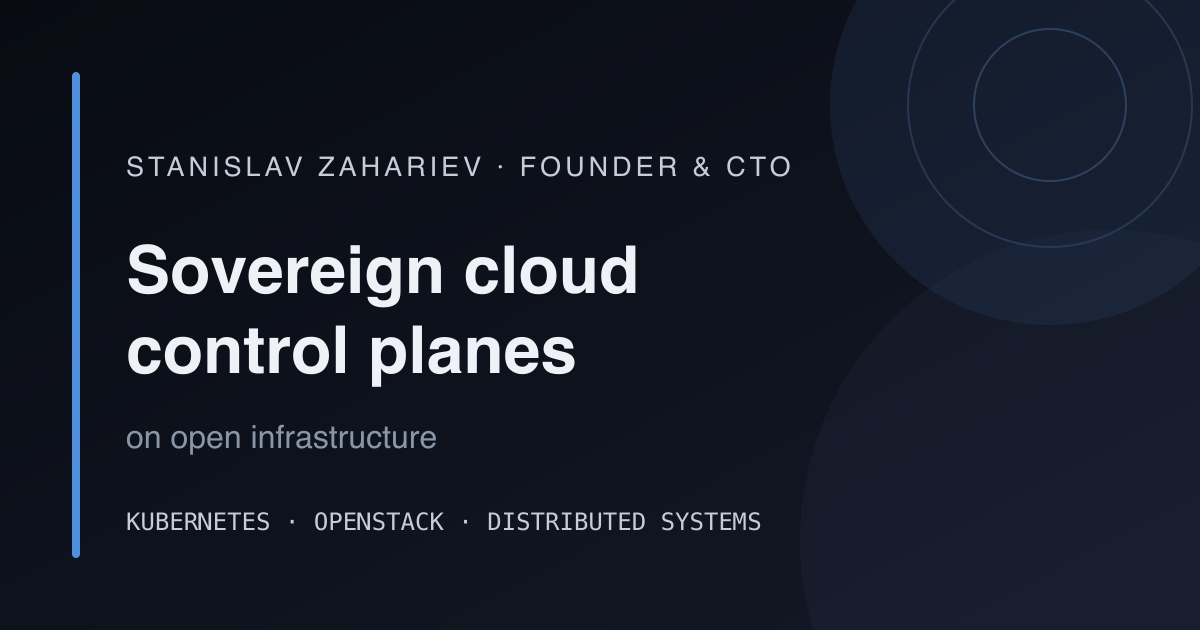
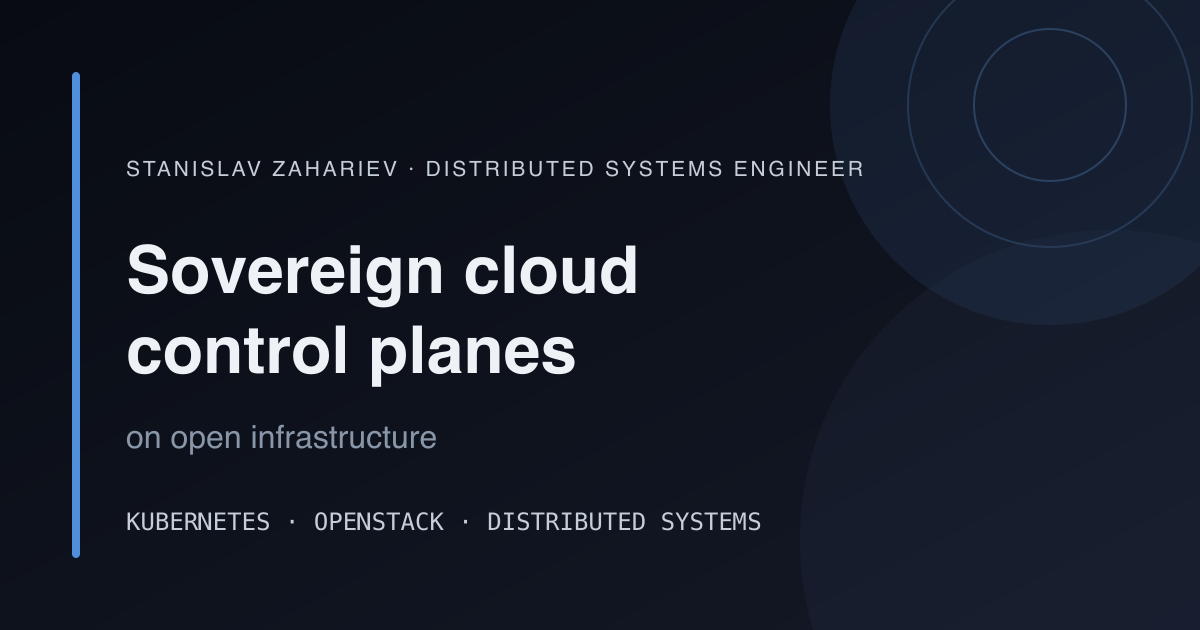
Refine personal profile

Changed region(s): [[0.0925, 0.2413, 0.7092, 0.3016]]

diff --git a/assets/css/main.css b/assets/css/main.css
@@ -16,8 +16,6 @@
   --link-hover: #fff;
   --card-from: rgb(20 25 39 / 72%);
   --card-to: rgb(13 18 32 / 55%);
-  --band-bg: rgb(13 18 32 / 78%);
-  --band-glow: rgb(79 143 220 / 10%);
   --empty-bg: rgb(20 25 39 / 60%);
   --button-primary: #245a96;
   --button-primary-hover: #2f6fb6;
@@ -48,8 +46,6 @@
   --link-hover: #050b14;
   --card-from: rgb(255 255 255 / 94%);
   --card-to: rgb(237 242 247 / 78%);
-  --band-bg: rgb(237 243 249 / 88%);
-  --band-glow: rgb(47 110 174 / 10%);
   --empty-bg: rgb(255 255 255 / 72%);
   --button-primary: #245a96;
   --button-primary-hover: #194d83;
@@ -77,8 +73,6 @@
     --link-hover: #050b14;
     --card-from: rgb(255 255 255 / 94%);
     --card-to: rgb(237 242 247 / 78%);
-    --band-bg: rgb(237 243 249 / 88%);
-    --band-glow: rgb(47 110 174 / 10%);
     --empty-bg: rgb(255 255 255 / 72%);
     --button-primary: #245a96;
     --button-primary-hover: #194d83;
@@ -470,6 +464,10 @@ p {
   padding-top: clamp(2.75rem, 4vw, 3.75rem);
 }
 
+.section + .section {
+  padding-top: 0;
+}
+
 .section-heading {
   max-width: 50rem;
   margin-bottom: clamp(1.75rem, 3vw, 2.5rem);
@@ -516,30 +514,6 @@ p {
 }
 
 .card p {
-  margin-top: 1.25rem;
-  color: var(--mist);
-}
-
-.section-band {
-  border-block: 1px solid var(--slate);
-  background:
-    linear-gradient(90deg, var(--band-glow), transparent 35%),
-    var(--band-bg);
-}
-
-.split-feature {
-  display: grid;
-  grid-template-columns: minmax(15rem, 0.8fr) minmax(20rem, 1.2fr);
-  gap: clamp(3rem, 9vw, 8rem);
-  align-items: start;
-}
-
-.feature-copy {
-  max-width: 39rem;
-  font-size: 1.17rem;
-}
-
-.feature-copy p + p {
   margin-top: 1.25rem;
   color: var(--mist);
 }
@@ -892,7 +866,6 @@ p {
   }
 
   .card-grid,
-  .split-feature,
   .page-shell-with-aside {
     grid-template-columns: 1fr;
   }

diff --git a/layouts/home.html b/layouts/home.html
@@ -22,20 +22,6 @@
     </div>
   </section>
 
-  <section class="section section-band">
-    <div class="shell split-feature">
-      <div>
-        <p class="eyebrow">{{ i18n "currentlyBuilding" }}</p>
-        <h2>Soverita</h2>
-      </div>
-      <div class="feature-copy">
-        <p>{{ .Params.soveritaIntro }}</p>
-        <p>{{ .Params.soveritaWork }}</p>
-        <a class="text-link" href="{{ site.Params.soverita }}">{{ i18n "visitSoverita" }} <span aria-hidden="true">→</span></a>
-      </div>
-    </div>
-  </section>
-
   <section class="section shell" aria-labelledby="writing-heading">
     <div class="section-heading heading-row">
       <div>

diff --git a/layouts/partials/footer.html b/layouts/partials/footer.html
@@ -4,7 +4,6 @@
       <a href="mailto:{{ site.Params.email }}">{{ i18n "email" }}</a>
       <a href="{{ site.Params.linkedin }}" rel="me">LinkedIn</a>
       <a href="{{ site.Params.bluesky }}" rel="me">Bluesky</a>
-      <a href="{{ site.Params.soverita }}">Soverita</a>
       {{ with site.Home.OutputFormats.Get "RSS" }}<a href="{{ .RelPermalink }}">RSS</a>{{ end }}
     </nav>
     <p class="footer-meta">&copy; {{ now.Year }} {{ site.Params.author }} &middot; {{ i18n "noTracking" }}</p>

diff --git a/layouts/partials/head.html b/layouts/partials/head.html
@@ -61,11 +61,6 @@
   "url": "{{ site.Home.Permalink }}",
   "image": "{{ "images/headshot-square.jpeg" | absURL }}",
   "jobTitle": "{{ site.Params.schemaJobTitle }}",
-  "worksFor": {
-    "@type": "Organization",
-    "name": "Soverita",
-    "url": "{{ site.Params.soverita }}"
-  },
   "sameAs": [
     "{{ site.Params.linkedin }}",
     "{{ site.Params.bluesky }}"

diff --git a/content/about.bg.md b/content/about.bg.md
@@ -1,6 +1,6 @@
 ---
 title: За мен
-description: Станислав Захариев е основател и технически директор на Soverita и инженер по разпределени системи в София.
+description: Станислав Захариев е инженер по разпределени системи в София. Работи по контролни равнини за суверенен облак, Kubernetes и отворена инфраструктура.
 portrait: images/headshot-portrait.jpeg
 portraitAlt: Портрет на Станислав Захариев
 ---
@@ -9,10 +9,11 @@ portraitAlt: Портрет на Станислав Захариев
 никога не виждат. Контролната равнина управлява правата, разполагането на натоварванията
 и възстановяването след отказ. Това е частта, върху която работя.
 
-Създадох [Soverita](https://soverita.io), за да изградя европейска платформа за управление на суверенен
-облак за организации, които управляват собствената си инфраструктура. Повечето от времето ми
-минава в проектиране на API между Kubernetes и инфраструктурата под него. Грижа се и системата
-да остава в коректно състояние, когато някоя операция се провали или бъде повторена.
+В момента работя по контролни равнини за суверенен облак за организации, които
+управляват собствената си инфраструктура. Повечето от времето ми минава в
+проектиране на API между Kubernetes и инфраструктурата под него. Грижа се и
+системата да остава в коректно състояние, когато някоя операция се провали или
+бъде повторена.
 
 Повече от двадесет години изграждам разпределени системи — от телефония за телеком оператори до
 финтех и AI платформи. Все още пиша код, внедрявам го и отстранявам проблемите, когато нещо се счупи.

diff --git a/content/_index.bg.md b/content/_index.bg.md
@@ -3,8 +3,6 @@ title: Станислав Захариев
 description: Станислав Захариев изгражда контролни равнини за суверенен облак върху отворена инфраструктура. Работата му обхваща Kubernetes, OpenStack и разпределени системи.
 heroTitle: Трудните проблеми на облачните контролни равнини
 heroIntro: Kubernetes и инфраструктурата, върху която работи, често се държат като отделни системи. Изграждам контролната равнина, която ги свързва в една работеща облачна платформа.
-soveritaIntro: Soverita е европейска платформа за управление на суверенен облак. Тя позволява на организациите да превърнат съществуващата си инфраструктура в облак на самообслужване, без да губят контрол върху системите, които го управляват.
-soveritaWork: Проектирам и реализирам API и работни процеси, които свързват Kubernetes с инфраструктурни платформи. Това включва създаване на машини, свързване на дискове, конфигуриране на маршрути и обработване на ресурсите, останали след прекъсната операция.
 writingTitle: Как частите работят заедно и къде се чупят
 firstEssayTitle: Суверенността е свойство на контролната равнина
 firstEssayText: Първата статия разглежда пет конкретни проверки за правомощията, ключовете, одитните доказателства, непрекъснатата работа и изхода от платформата.

diff --git a/content/speaking.bg.md b/content/speaking.bg.md
@@ -71,7 +71,11 @@ cloud controller manager и CSI драйвъра и показва кой ком
 
 ## Биография
 
-Станислав Захариев е основател и технически директор на Soverita, където изгражда контролни равнини за суверенен облак върху отворена инфраструктура. Повече от двадесет години той изгражда разпределени системи в телекомуникациите, финтех и AI. Пише и говори за Kubernetes, OpenStack и за това какво се случва, когато облачната архитектура се срещне с реални системи и реални откази.
+Станислав Захариев е инженер по разпределени системи, който работи по контролни
+равнини за суверенен облак и отворена инфраструктура. Повече от двадесет години
+той изгражда разпределени системи в телекомуникациите, финтех и AI. Пише и говори
+за Kubernetes, OpenStack и за това какво се случва, когато облачната архитектура
+се срещне с реални системи и реални откази.
 
 [Изтеглете портретна снимка]({{< static-url "images/headshot-portrait.jpeg" >}}) ·
 [Изтеглете квадратна снимка]({{< static-url "images/headshot-square.jpeg" >}}) ·

diff --git a/content/about.md b/content/about.md
@@ -1,6 +1,6 @@
 ---
 title: About
-description: Stanislav Zahariev is the founder and CTO of Soverita and a distributed-systems engineer based in Sofia, Bulgaria.
+description: Stanislav Zahariev is a distributed systems engineer based in Sofia, Bulgaria. He works on sovereign cloud control planes, Kubernetes and open infrastructure.
 portrait: images/headshot-portrait.jpeg
 portraitAlt: Portrait of Stanislav Zahariev
 ---
@@ -9,11 +9,10 @@ Most of the work behind a cloud happens in software its users never see. The
 control plane handles permissions, workload placement, and recovery when things
 fail. That's the part I work on.
 
-I started [Soverita](https://soverita.io) to build a European sovereign-cloud
-governance platform for organizations running their own infrastructure. Most
-of my time goes into designing APIs between Kubernetes and the underlying
-infrastructure, and making sure operations behave correctly when something
-fails or gets retried.
+My current work focuses on sovereign cloud control planes for organizations
+running their own infrastructure. Most of my time goes into designing APIs
+between Kubernetes and the underlying infrastructure, and making sure
+operations behave correctly when something fails or gets retried.
 
 I've spent over twenty years building distributed systems, from carrier-grade
 telephony to fintech and AI platforms. I still write code, deploy it, and debug

diff --git a/content/_index.md b/content/_index.md
@@ -3,8 +3,6 @@ title: Stanislav Zahariev
 description: Stanislav Zahariev builds sovereign cloud control planes on open infrastructure. His work spans Kubernetes, OpenStack and distributed systems.
 heroTitle: Solving the hard parts of cloud control planes
 heroIntro: Kubernetes and the infrastructure beneath it often operate as separate systems. I'm building the control plane that connects them into a working cloud platform.
-soveritaIntro: Soverita is a European sovereign cloud governance platform. It lets organizations use their existing infrastructure as a self-service cloud while keeping control over the systems that operate it.
-soveritaWork: I design and implement the APIs and workflows connecting Kubernetes to infrastructure platforms. The work involves provisioning machines, attaching storage, configuring routes and handling resources left behind when operations are interrupted.
 writingTitle: How the pieces fit and where they fail
 firstEssayTitle: What makes a cloud sovereign?
 firstEssayText: The first essay examines five architectural invariants behind operator independence, with practical ways to verify each one in a running system.

diff --git a/content/speaking.md b/content/speaking.md
@@ -85,11 +85,11 @@ about what you run to find out whether either one is telling the truth.
 
 ## Speaker biography
 
-Stanislav Zahariev is the founder and CTO of Soverita, where he builds sovereign
-cloud control planes on open infrastructure. For more than twenty years, he has
-built distributed systems across carrier-grade telephony, fintech and AI. He writes
-and speaks about Kubernetes, OpenStack and what happens when cloud architecture
-meets real systems and real failures.
+Stanislav Zahariev is a distributed systems engineer working on sovereign cloud
+control planes and open infrastructure. For more than twenty years, he has built
+distributed systems across carrier-grade telephony, fintech and AI. He writes and
+speaks about Kubernetes, OpenStack and what happens when cloud architecture meets
+real systems and real failures.
 
 [Download portrait headshot]({{< static-url "images/headshot-portrait.jpeg" >}}) ·
 [Download square headshot]({{< static-url "images/headshot-square.jpeg" >}}) ·
